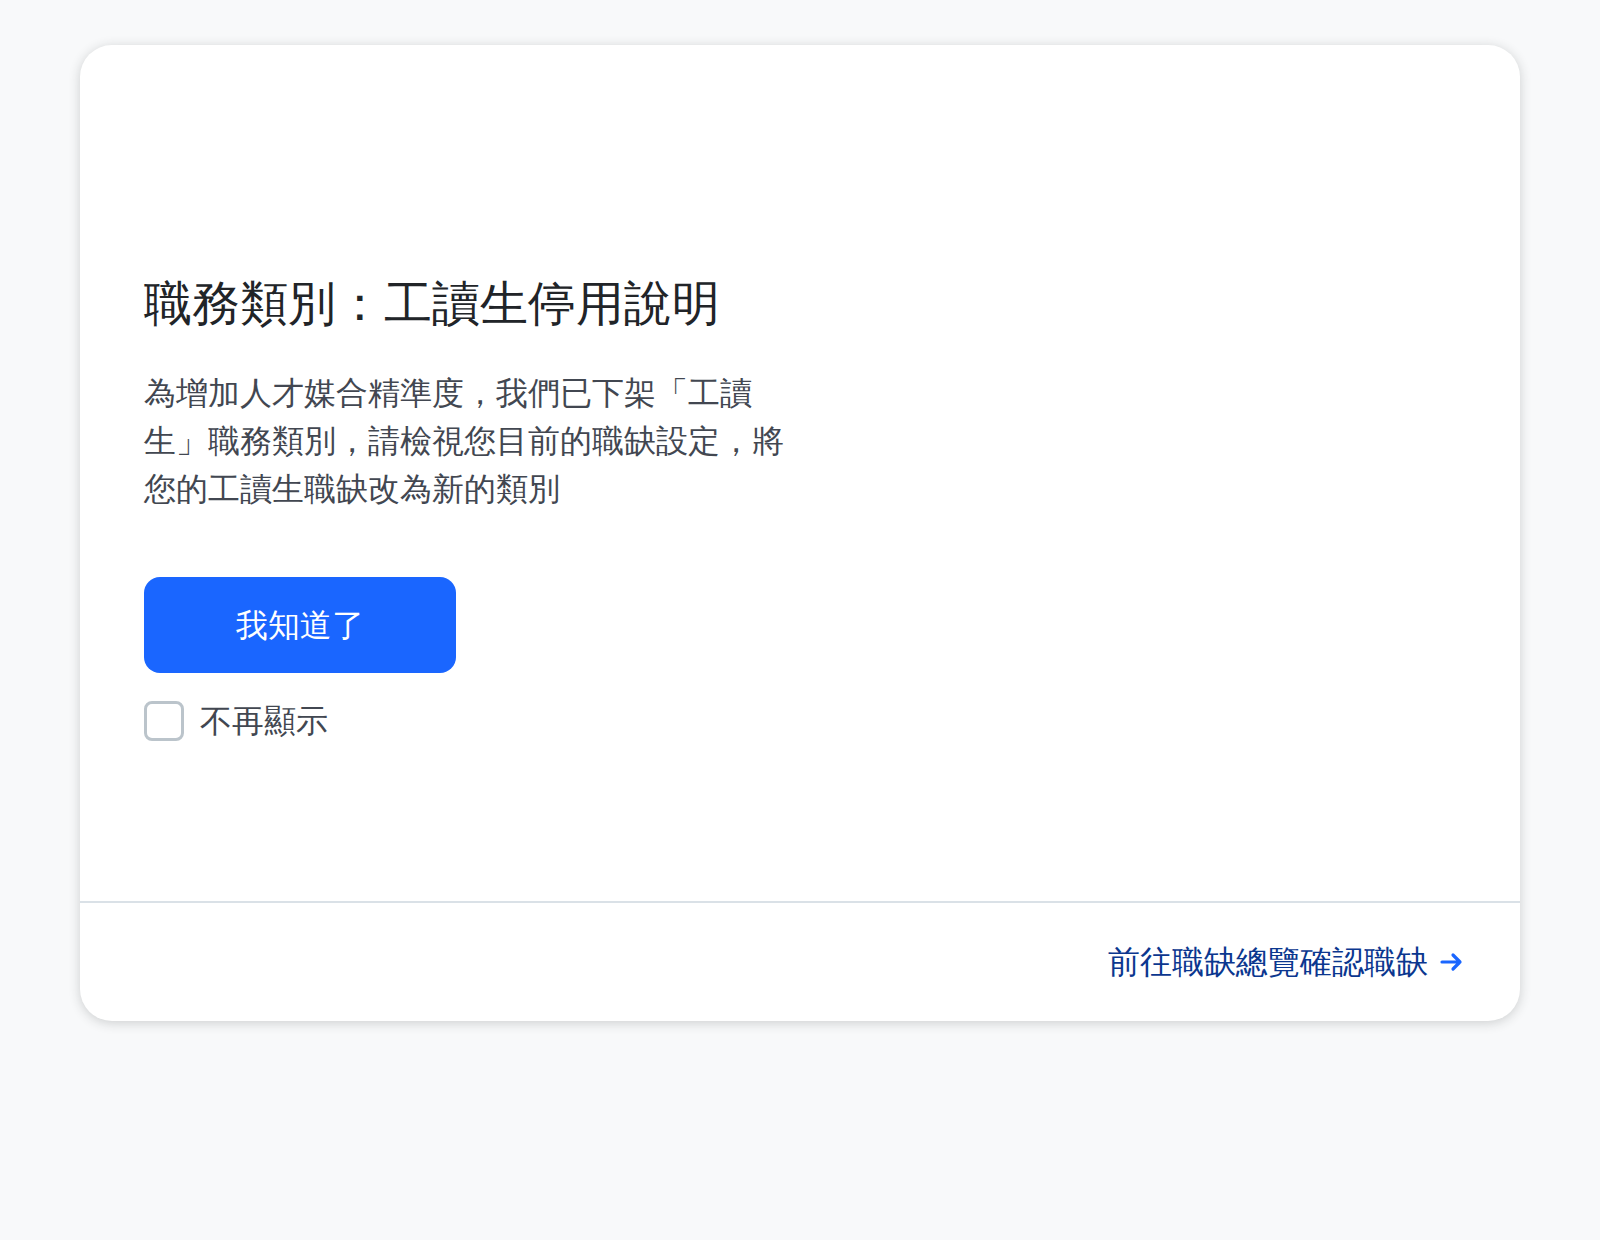
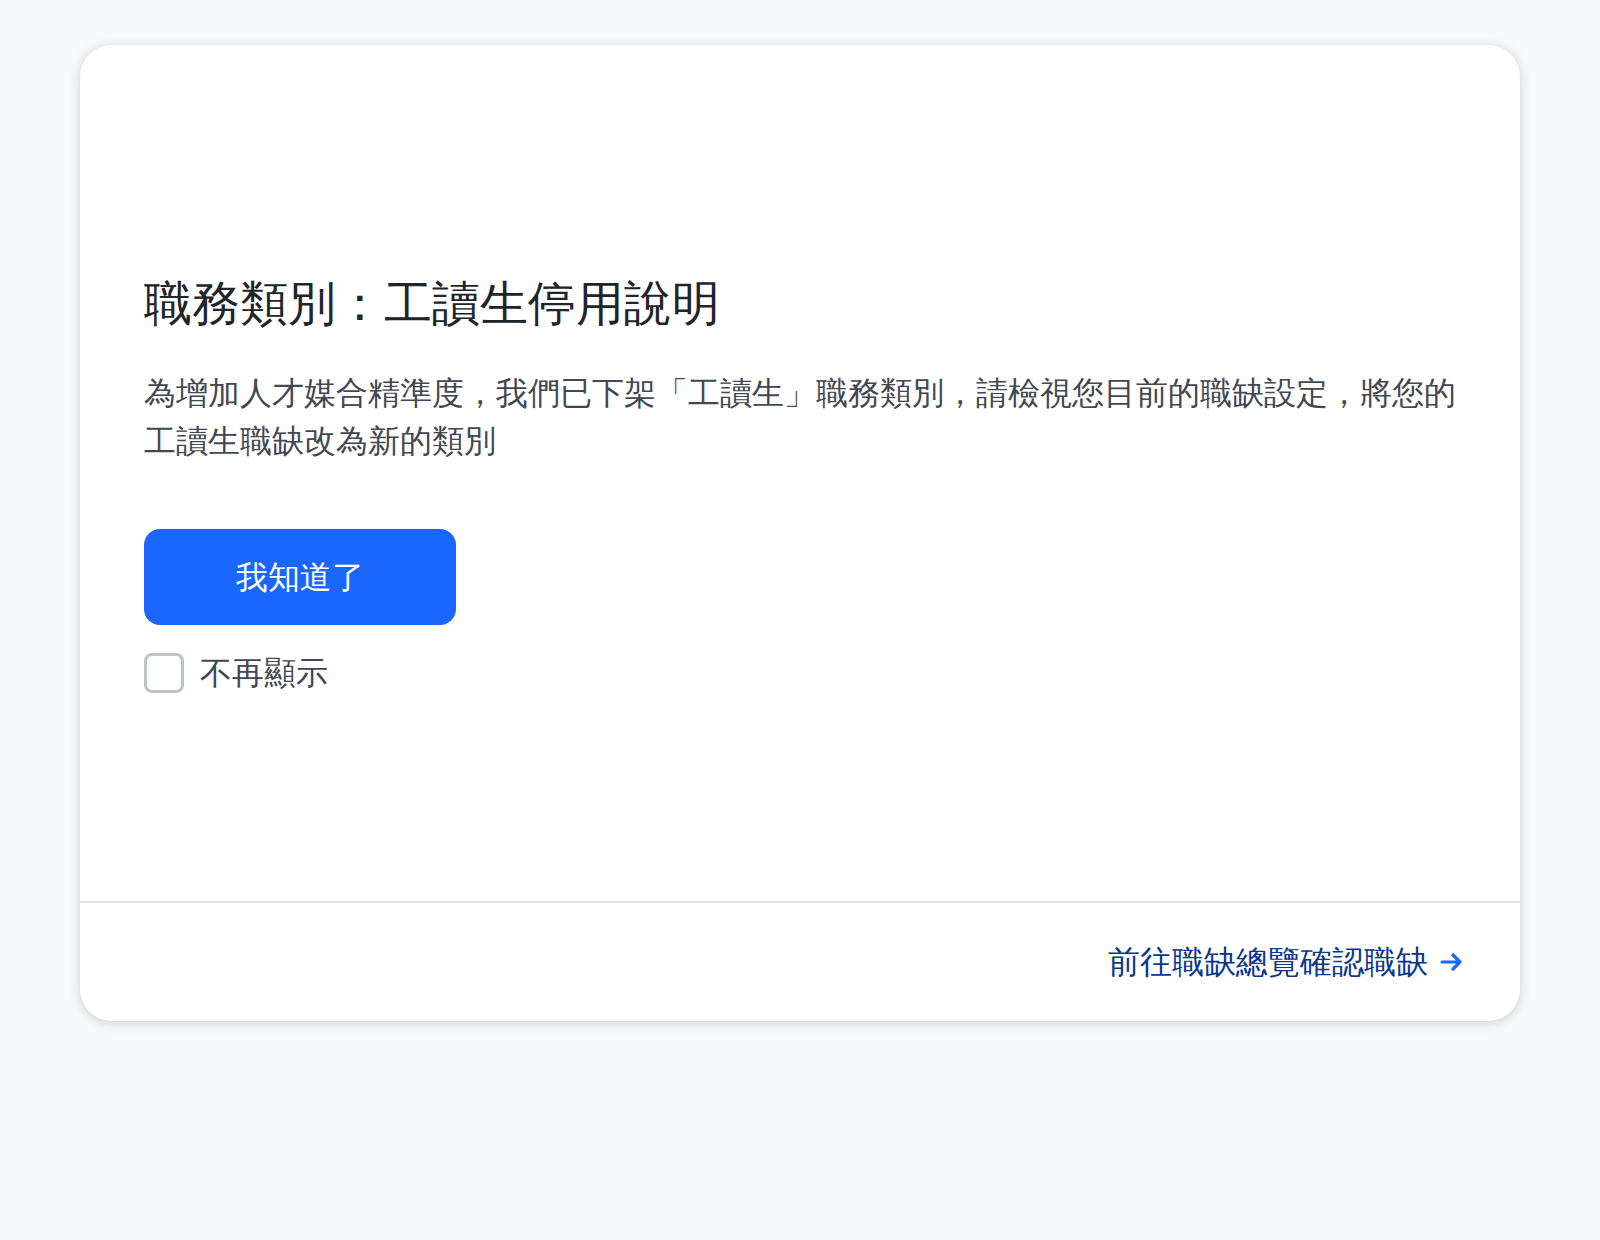
docs(assets): modal 文字區改為滿版寬度（移除插圖區佔位）
原 Figma 右側 Image Overlay 已不使用，文字區由 332px 改為 width:100%
（左右各 32px padding），標題／內文／按鈕／checkbox 起始位置與
Footer 規格維持原稿不變。

Claude-Session: https://claude.ai/code/session_01UCest88UyhV6wBo2myhk1A

Changed region(s): [[0.0625, 0.3065, 0.9062, 0.6129]]

diff --git a/.claude/assets/part-time/parttime_disable_modal.html b/.claude/assets/part-time/parttime_disable_modal.html
@@ -35,10 +35,9 @@
   /* Content 720x428 */
   .modal-content{
     flex:1;
-    padding:114px 0 0 32px;   /* Text frame x=32 / y=114 */
-    padding-bottom:32px;
+    padding:114px 32px 32px;  /* Text frame x=32 / y=114；原插圖區移除，左右各留 32 */
   }
-  .text-col{width:332px;display:flex;flex-direction:column;}
+  .text-col{width:100%;display:flex;flex-direction:column;}
   .title{                     /* EN/Headline/24 M */
     font-size:24px;font-weight:500;line-height:32px;
     color:var(--Basic-Grey-Primary);
